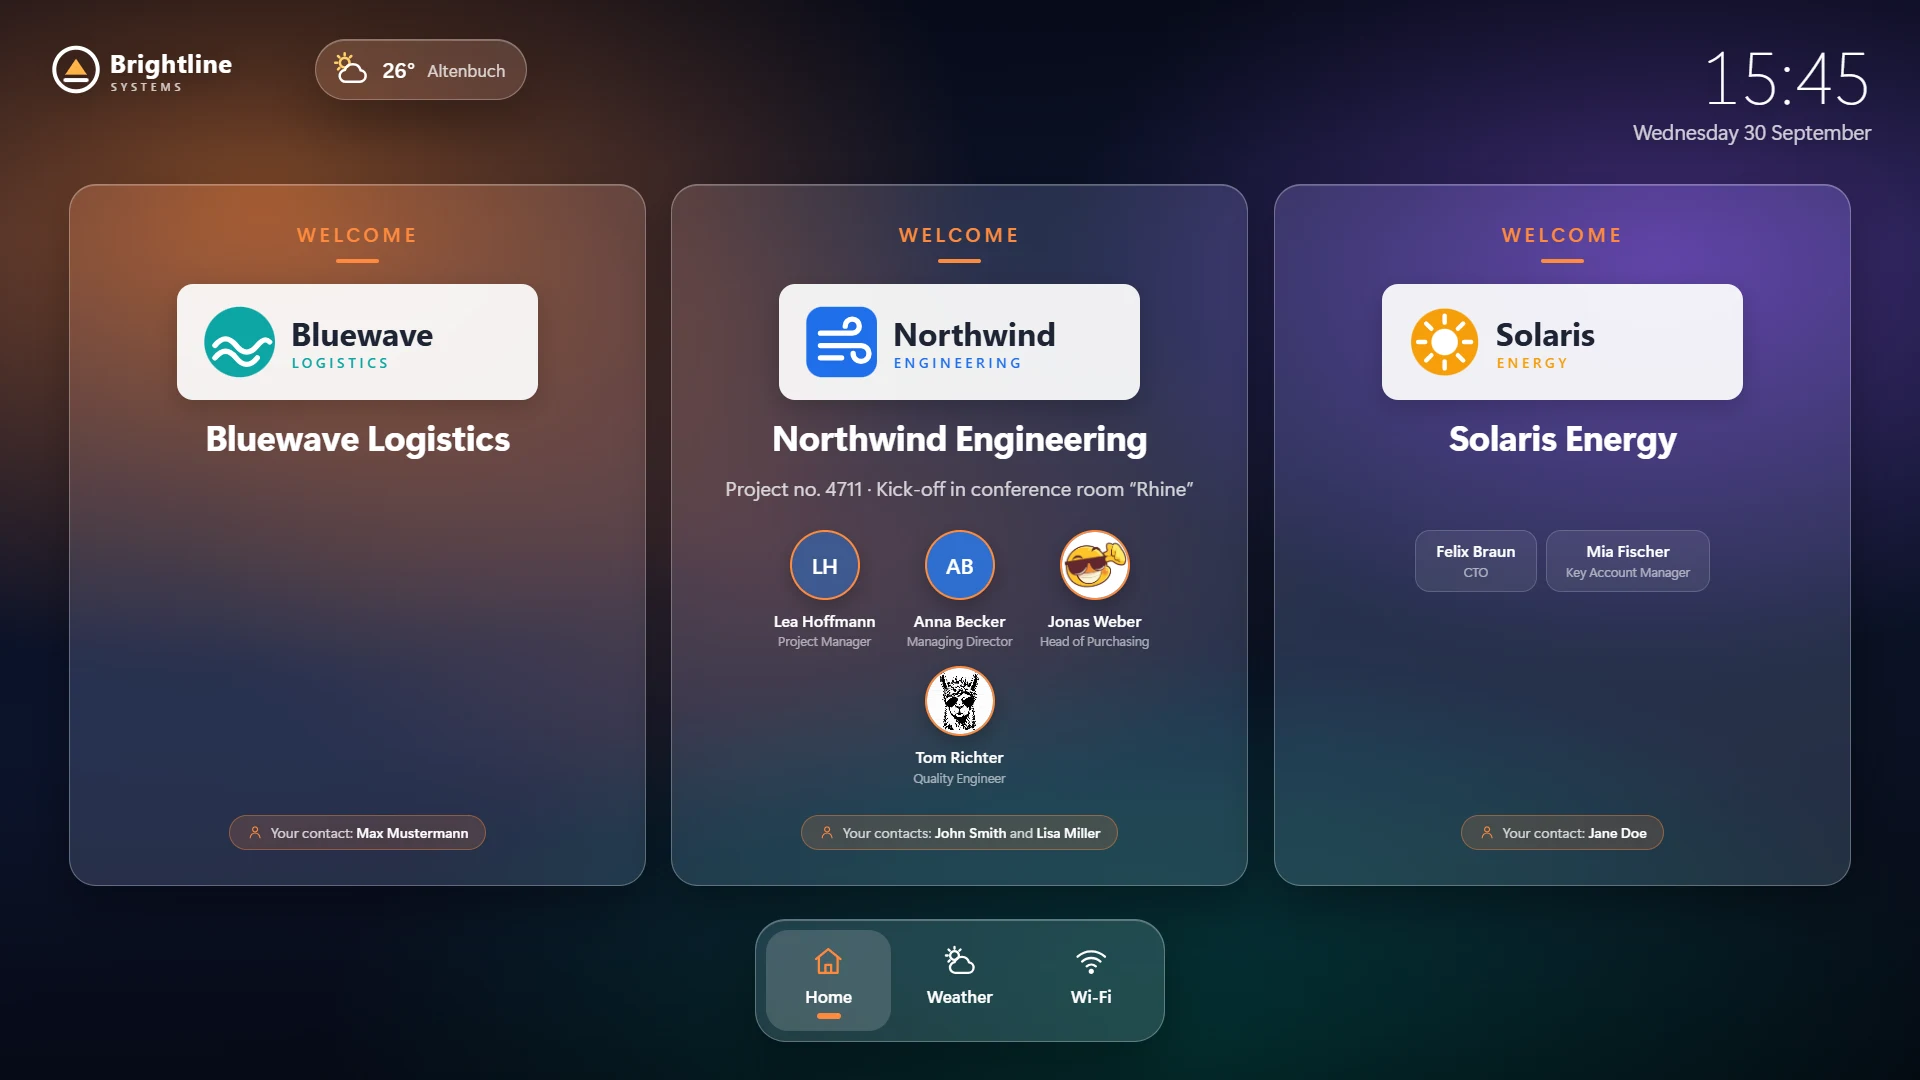
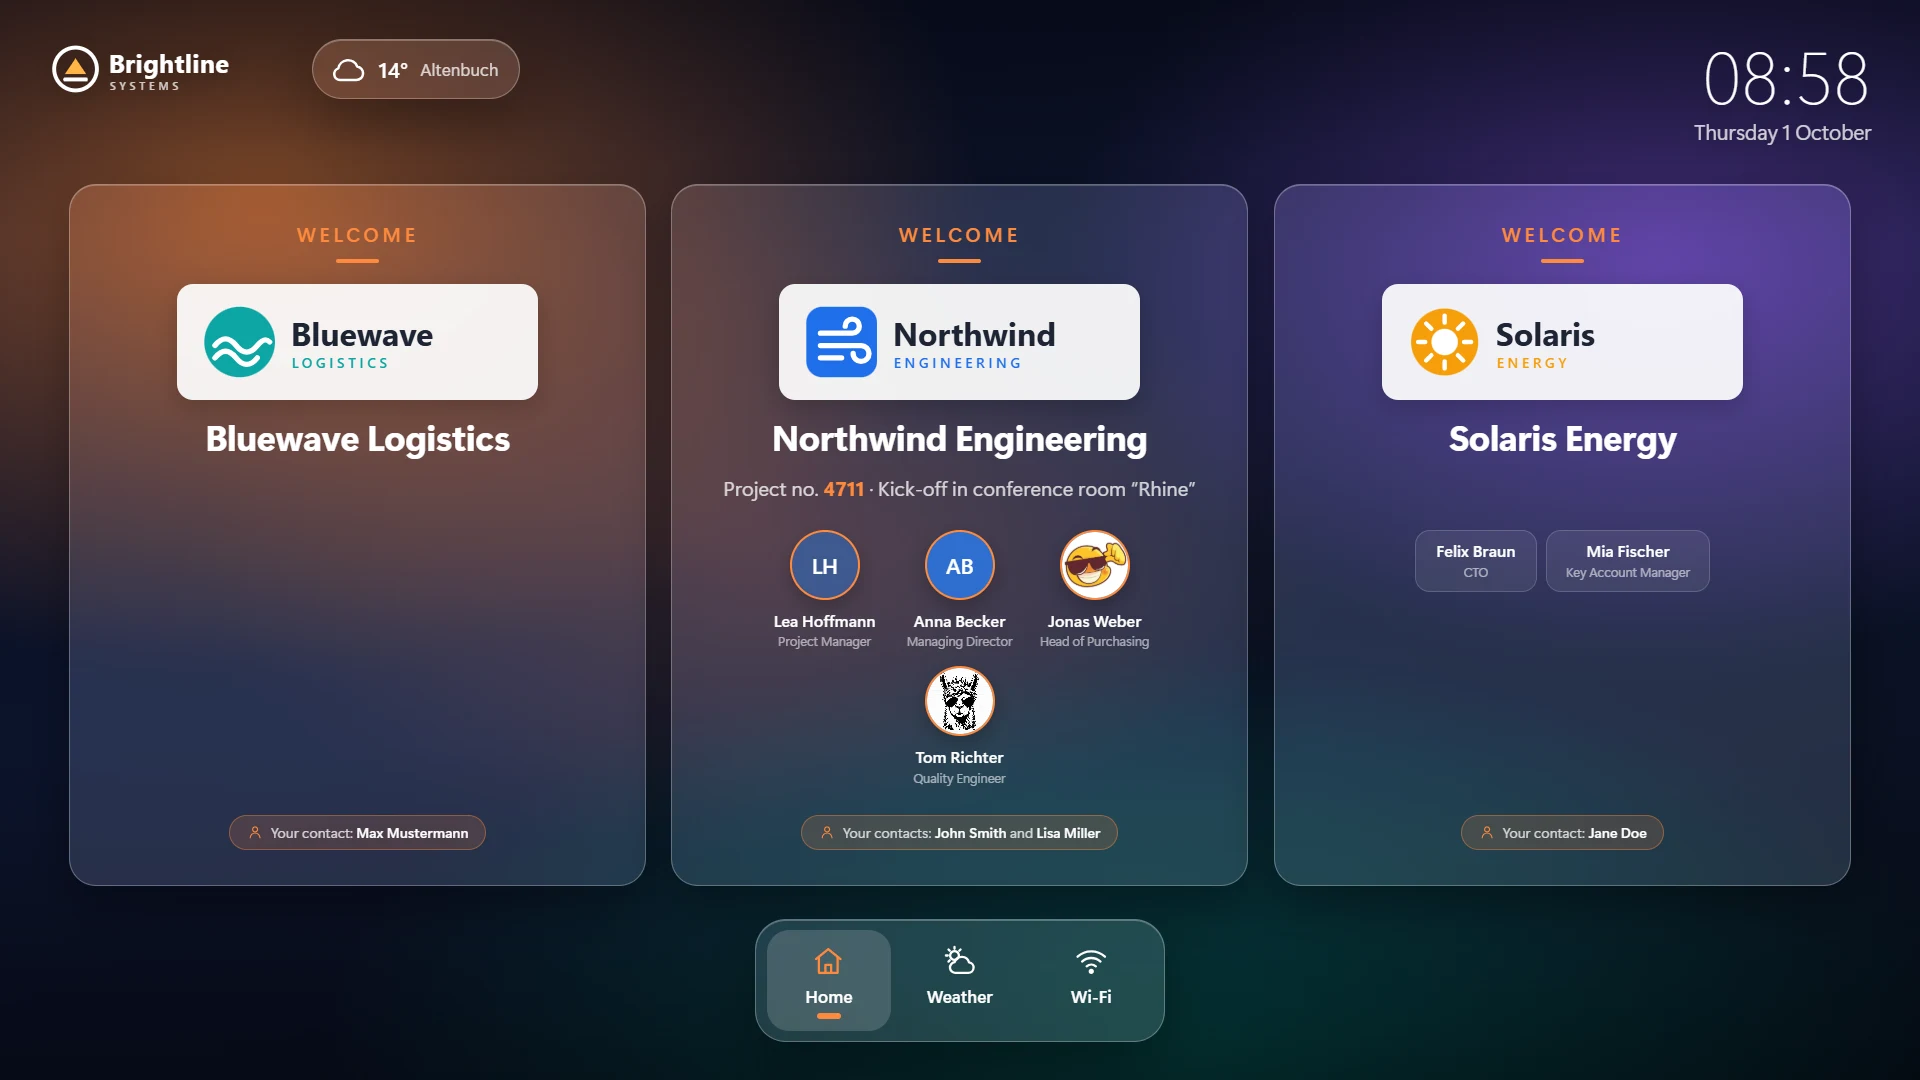
docs: refresh README screenshots and mention emphasized text

diff --git a/README.md b/README.md
@@ -28,6 +28,8 @@ from Claude and other AI assistants (*"Northwind is visiting tomorrow with Anna 
 - **Employee pictures** – own photo, a picture from the picture pool or initials in a color of your choice – switched
   on per visit (default: names only).
 - **Weather** (Open-Meteo, no API key) and **guest Wi-Fi** with QR code.
+- **Emphasized text** – parts of the free texts can be highlighted in the accent color and/or bold, e.g.
+  `Bright***line*** Systems`.
 - **Layouts** – background image, own logo and its size, colors, glass effect, spacing, and font, size and color of
   every text element. Twelve open-source fonts are shipped (no external font services). Several layouts, e.g.
   seasonal.
